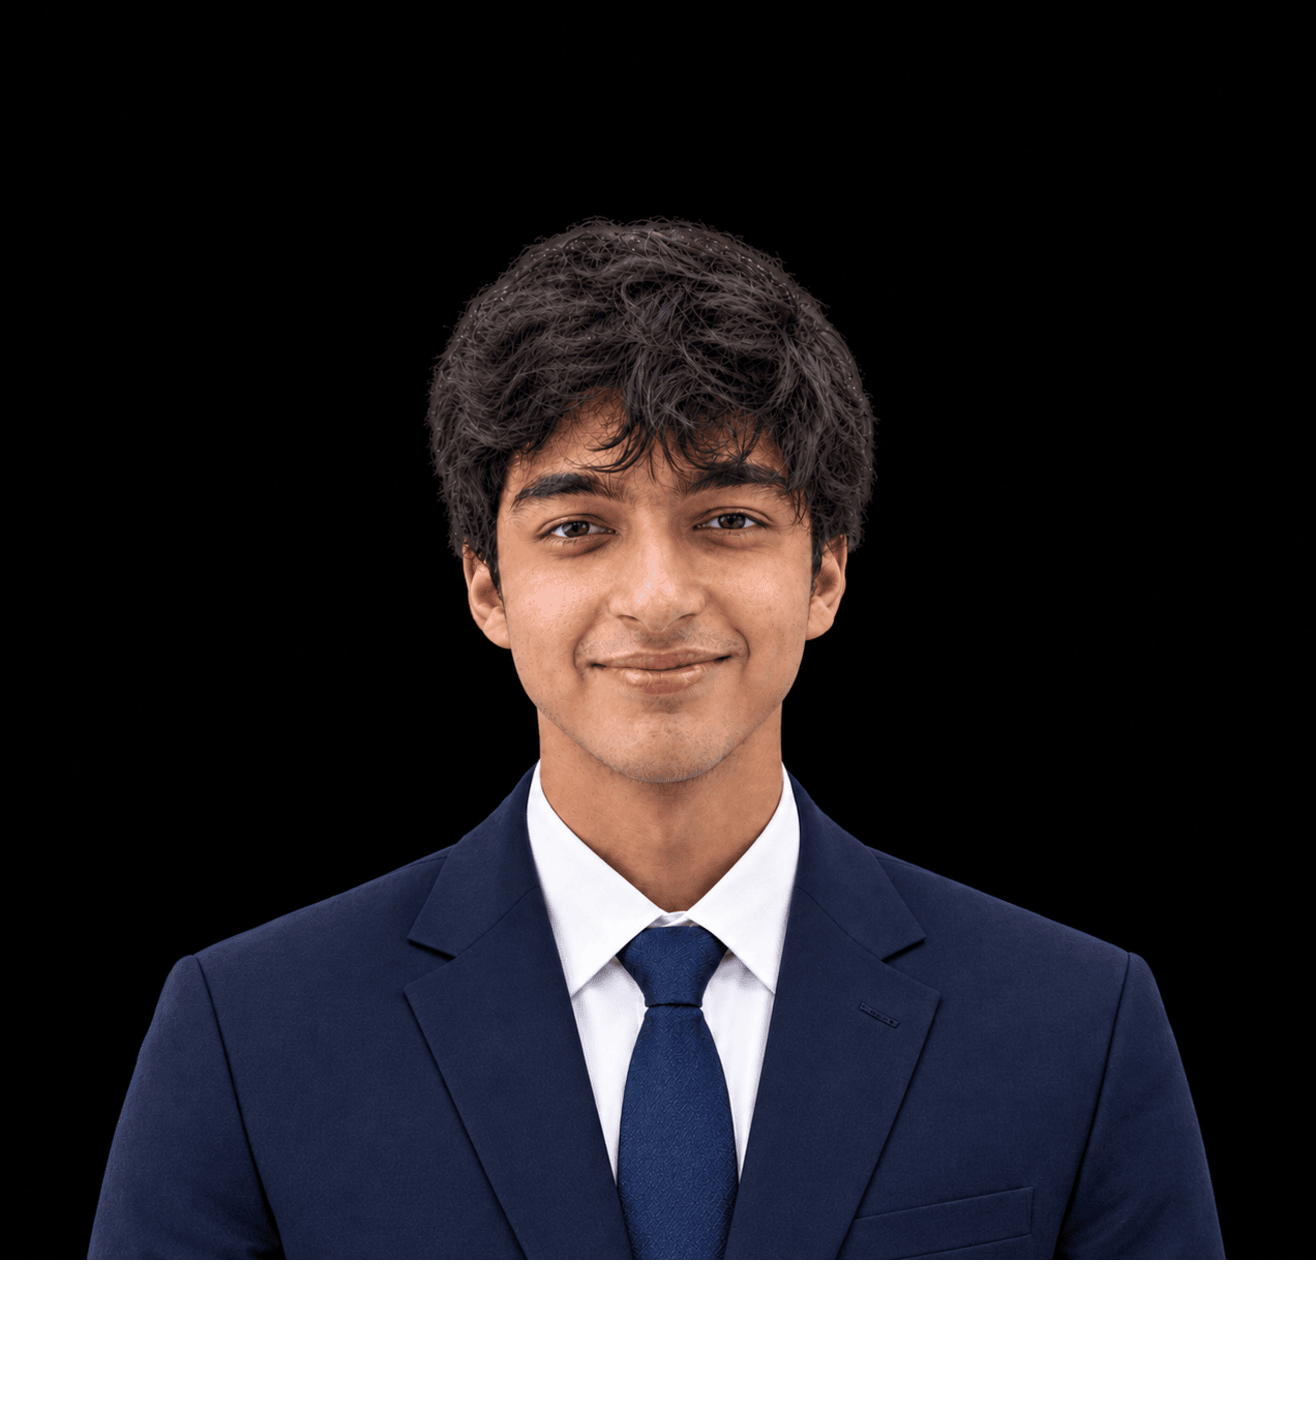
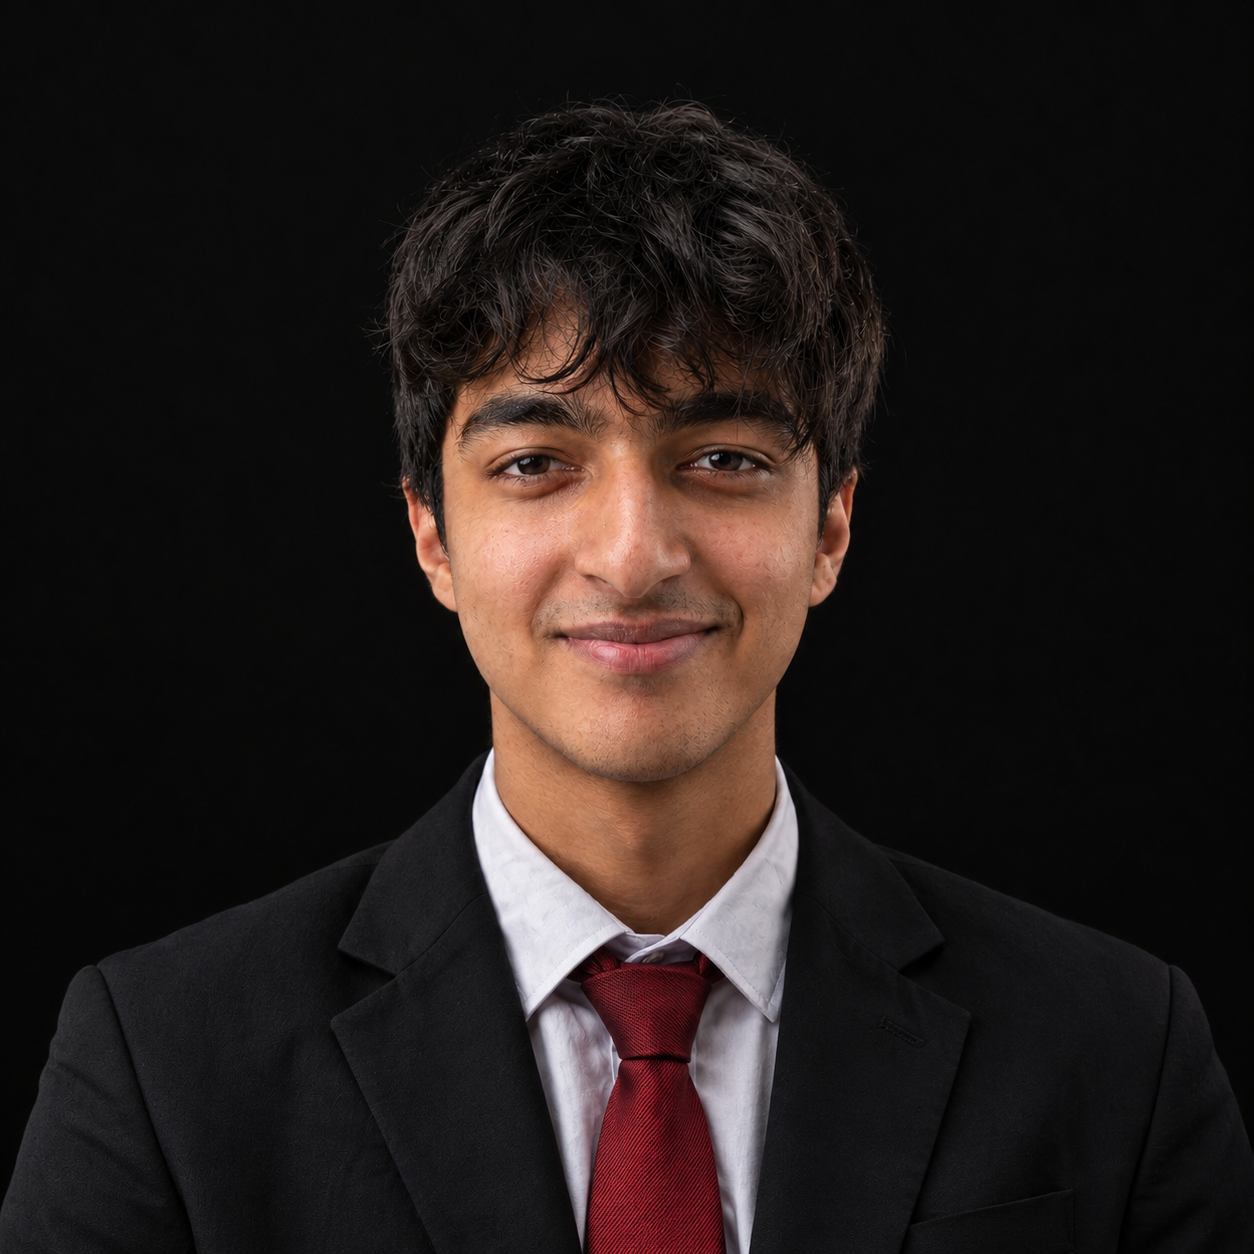
last commit

diff --git a/index.html b/index.html
@@ -111,7 +111,7 @@
                <div class="header-content-wrapper">
                   <div class="position-relative-mbl">
                      <a
-                        href="/home"
+                        href="#"
                         aria-current="page"
                         class="header-logo-link w-nav-brand w--current"
                         ><img
